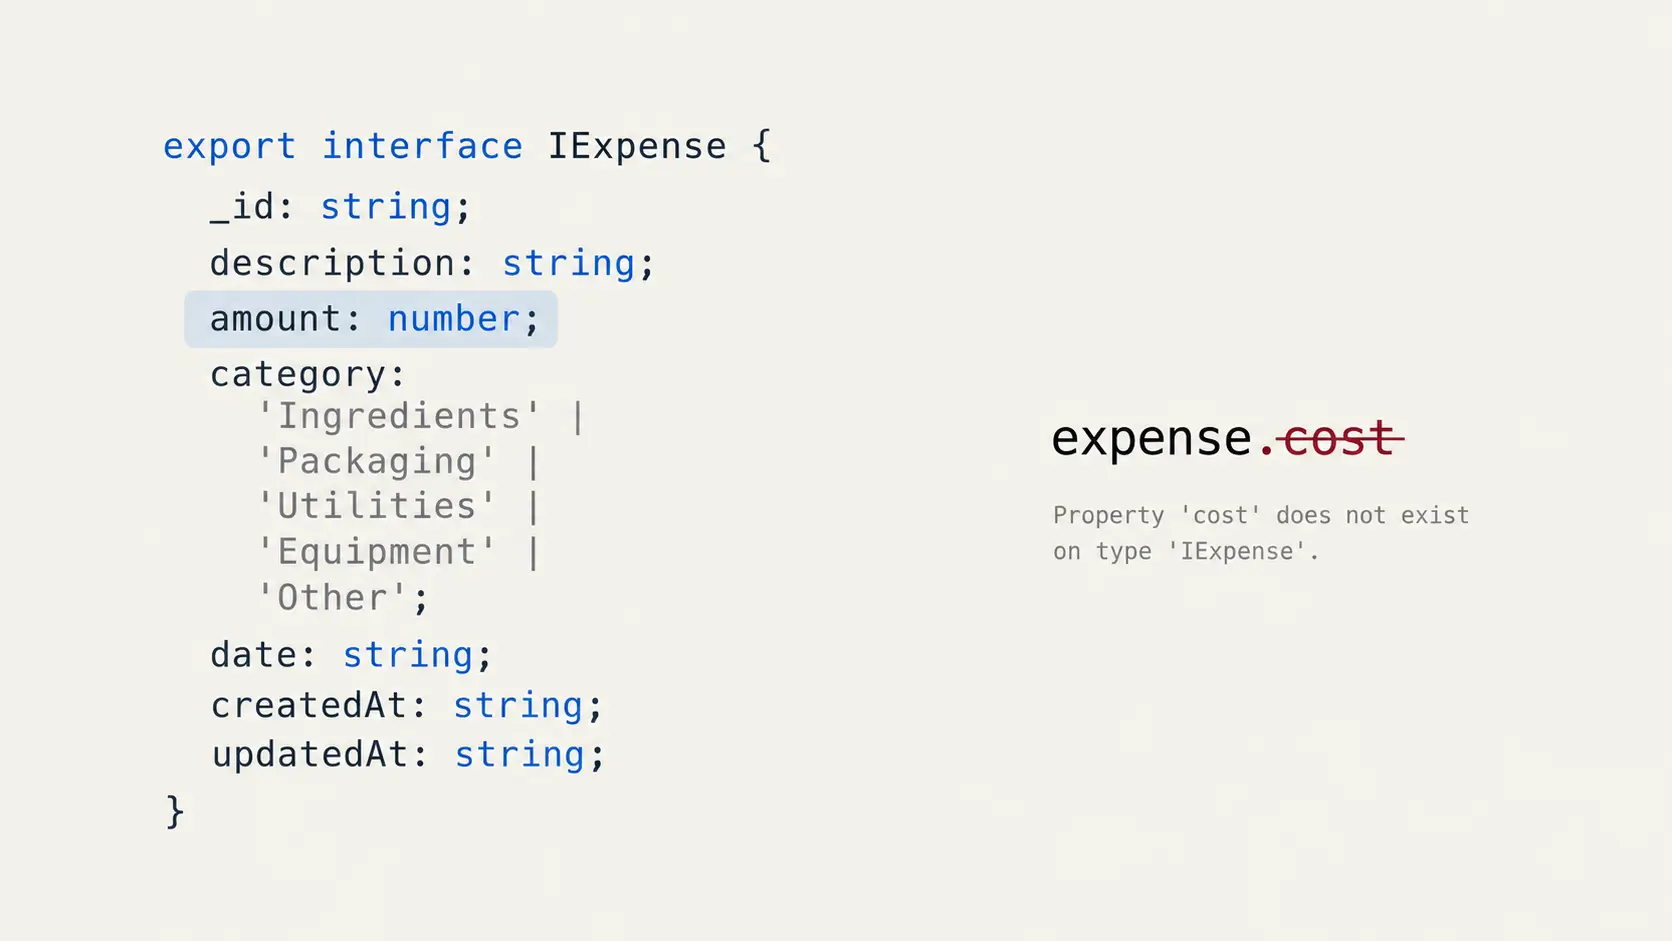
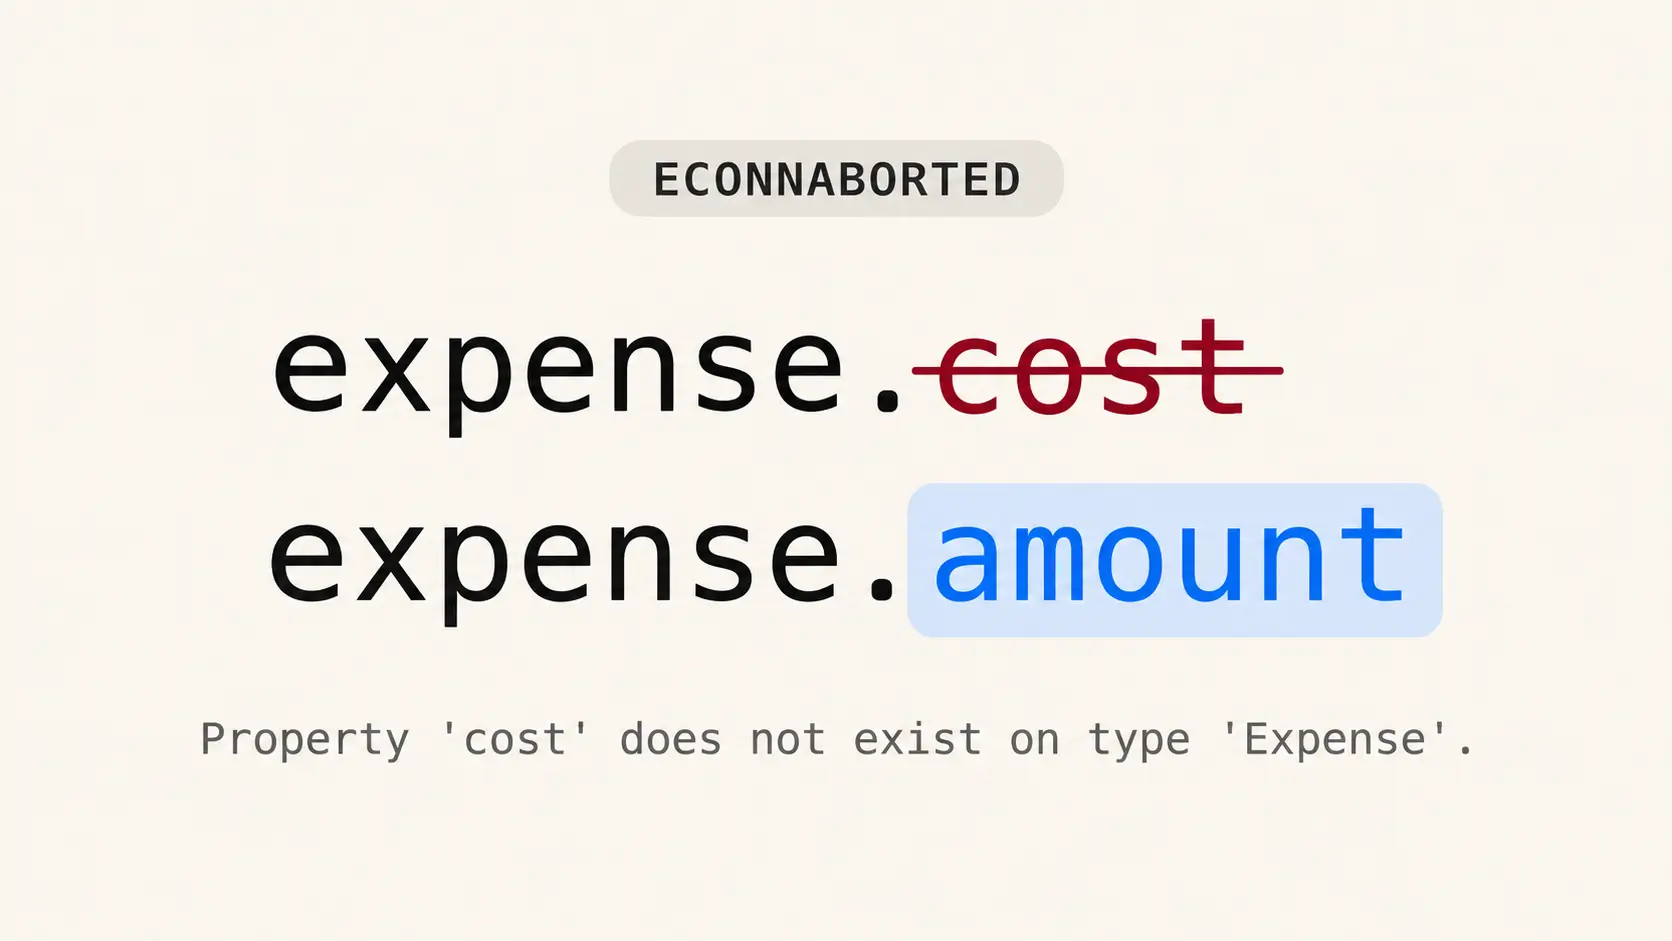
feat: expand blog archive and polish cards (#60)

diff --git a/src/app/blog/page.tsx b/src/app/blog/page.tsx
@@ -66,7 +66,7 @@ export default async function BlogPage({
                       alt=""
                       fill
                       sizes="(max-width: 767px) calc(100vw - 2rem), (max-width: 1023px) calc((100vw - 5.5rem) / 2), (max-width: 1151px) calc((100vw - 8rem) / 2), 32rem"
-                      className="object-cover grayscale transition-[filter] duration-500 ease-[cubic-bezier(0.22,1,0.36,1)] group-hover:grayscale-0 group-focus-within:grayscale-0 motion-reduce:transition-none"
+                      className="object-cover"
                     />
                   )}
                 </div>
@@ -77,7 +77,7 @@ export default async function BlogPage({
                   <p className="line-clamp-2 text-sm font-normal leading-6 tracking-normal text-muted-foreground sm:text-base">
                     {post.description}
                   </p>
-                  <div className="mt-auto pt-3 text-xs text-muted-foreground sm:text-sm">
+                  <div className="mt-auto pt-1 text-xs text-muted-foreground sm:text-sm">
                     <time dateTime={post.date}>{formatDate(post.date)}</time>
                   </div>
                 </CardContent>
